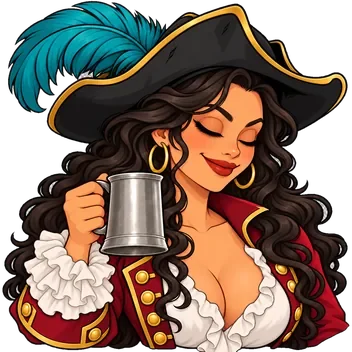
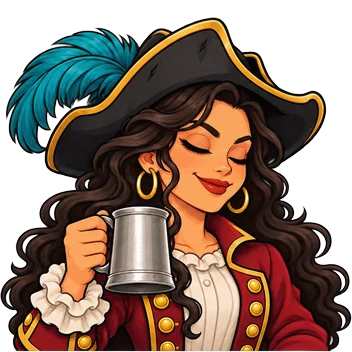
077 FR-074: the privateer's three poses redone with a higher neckline (review of #1000)

diff --git a/specs/077-cheeky-crew/spec.md b/specs/077-cheeky-crew/spec.md
@@ -261,7 +261,7 @@ The issue says *The theme's own* is "Minimalist in the normal themes; Pixel and 
 - 2026-10-29 (issue #871, owner Paco): **FR-071** `[IMPLEMENTED]` **A sleeping crew character in a nap bed reads like the couch seat.** With Characters = Cheeky, a character in a bed slot was the round face crop turned 80 degrees at the bottom left of a tall bunk column (two posts, a bed 34 px high, the name floating at the top, the chat number over the bed's foot). Now (1) it is the **same head-and-shoulders crop as a couch seat** (`avatar(a, 'seat')`, FR-060), upright on the pillow, with the blanket drawn over its lower edge, never rotated or cut; (2) the **name sits under the figure and the chat number on its top-left corner, as on the couch** (the issue 576 rule, name on top and number at the foot, stays for the other kits, whose figure lies down); (3) a bunk that holds **one bed** (a lone or odd sleeper) has **no posts** and its bed slot takes the whole column height, so the bed is drawn at a sensible size (up to 44 px high, 72 px wide) and the figure as large as the couch's; two beds in one column still split it in half. Bed slots of other kits keep their drawing; a lone bed there loses its posts. `[KNOWN GAP]` two stacked sleepers at 1280x800 each get a slot about 29 px high: the head and shoulders shrink to what fits (about 16 px), as the couch seats do in a short row (the badge check is skipped below 30 px). *Check:* `check:crew` lounge step at 1440x900 and 1280x800 (a lone sleeper with a couch next to it): the figure inside the bed slot and the lounge, the face box not clipped, the name under the figure, the chip clear of the face, the bed at least 26 px high.
 - 2026-10-29 (issue #815, crew 1 of 5; owner Paco, art signed off on #815 on 2026-10-27, "estan bien"): **FR-072** `[IMPLEMENTED]` (`test:` `test:crew`, `test:characters`, `test:crew-assets`; `sim:` `check-crew`, `check-characters`) **The Prehistoric Crew, a second Characters value** (FR-064: "New crews are added later as more values"). (1) The list gets `prehistoric` (label **Prehistoric**), appended, so `theme`, `minimalist` and `cheeky` keep their place; it draws the same `crew` kit (FR-065 unchanged: on top of any theme). `src/shared/characters.ts`, `theme.js` and `api.ts` carry it; `settings:setCharacters` accepts it and the file stores it. (2) `crew.js` is generalised, not forked: `IDS` stays the 13 Cheeky ids in the same order (saved choices unchanged, still under `durbar.crew`); `PREHISTORIC_IDS` = youngbeard, braids, bigbeard, ponytail, inventor, shaman; `idsFor(choice)` gives the list of a Characters value (anything else: Cheeky) and `storeKey(choice)` its localStorage key (`durbar.crew.prehistoric` for the new crew), so each crew keeps its own map and switching crews never mixes ids; an id is in one crew only. `app.js` asks for the active crew's ids, preloads that crew's pictures once and reloads the map when the Characters value changes. (3) Art (FR-050, FR-054): 6 characters x 3 poses = 18 WebP files `crew/art/prehistoric-<id>-<pose>.webp` (352x352, alpha, at most 40 KB, no metadata), made by Paco in ChatGPT on 2026-10-27, speck-cleaned (islands of 40 pixels or fewer removed) by Paco's agent, licence MIT (#799), with a row each in `ASSETS.md`. The total size cap of `test:crew-assets` goes from 1.5 MB to 2.5 MB (13 + 6 characters are about 1.8 MB). (4) `FACE` has a point per character and pose, read from each picture with a 50 px grid like the others (FR-060); `test:crew` and `check-crew` check the crop and the face box for every picture. (5) Settings lists it as the fourth choice with a portrait preview (FR-068). (6) `check-crew` runs the desks, poses, sharpness, faces, glow, idle, bed-slot and missing-picture steps for both crews at 1440x900 and 1280x800 (`CREW_CHARS` picks one); `check-characters` picks Prehistoric too. Other crews will be added the same way. Not verified: Windows and macOS (simulator on Linux only).
 - 2026-10-29 (issue #879; owner Paco, option 1 of 3 in his DM to his agent): **FR-073** `[IMPLEMENTED]` (`test:` `test:crew`; `sim:` `check-crew`) **In the simulator, each demo agent wears a character that fits its name**, per crew. Before, the random pick (FR-003) often dressed "Ada" as a bearded caveman. (1) `src/renderer/simcrew.js` is a fixed table, demo name -> one character id per crew (Cheeky, Prehistoric; a later crew adds a column). It was made by looking at the art: man, woman or neutral reading of each character, chosen once; there are no gender tags anywhere in the app. (2) `app.js` asks it only when the page runs under the simulator (`SIM`, `?sim=`): when a crew's map for the office is (re)built (`syncCrew`), it starts from the table (by the agent's own name, `baseName`, so a long alias or a rename does not change it) instead of empty, and the existing `assignCrew` fills the rest. `crew.js` is unchanged; real sessions, the web demo, saved choices (`durbar.crew*`) and helpers (random, as before) are untouched. (3) The table: Cheeky, women Ada gamer, Mira bob-glasses, Elif hacker, Priya disco, Lena sporty, Clara punk, Rosa bob-glasses (reused), Maya gamer (reused); unisex Noor scientist; men Jonas rocker, Tomas metalhead, Kenji skater, Omar buzzcut, Sven surfer, Hugo bookworm. Prehistoric (only six characters for 15 names, so reuse): Ada, Priya, Rosa braids; Mira, Lena, Maya ponytail; Elif, Clara shaman; Jonas, Sven bigbeard; Tomas, Omar youngbeard; Noor, Kenji, Hugo inventor. Reused rows are in different rooms where the default roster allows it. Reading of the Cheeky art: gamer, bob-glasses, disco and sporty women; hacker and punk neutral, leaning woman and androgynous; scientist neutral; buzzcut neutral, leaning man; rocker, metalhead, surfer, bookworm and skater men. Prehistoric: braids, ponytail women; shaman neutral, leaning woman; youngbeard and bigbeard men; inventor neutral, leaning boy. [KNOWN GAP] the readings are one person's look at drawn faces, not a claim about anyone; a new demo name needs a row (a name without one keeps the random pick).
-- 2026-11-01 (issue #815, crew 2 of 5; owner Paco, art approved by him on 2026-11-01): **FR-074** `[IMPLEMENTED]` (`test:` `test:crew`, `test:characters`, `test:crew-assets`; `sim:` `check-crew`, `check-characters`) **The Pirate Crew, a third Characters value**, added the way FR-072 added Prehistoric. (1) The list gets `pirate` (label **Pirate**), appended after `prehistoric`, drawing the `crew` kit; `characters.ts`, `theme.js`, `api.ts`, `sim.ts` and Settings carry it. (2) `crew.js`: `PIRATE_IDS` = captain, eyepatch, hook, cook, privateer, cabinboy; `CREWS.pirate`; `storeKey('pirate')` = `durbar.crew.pirate`; files `crew/art/pirate-<id>-<pose>.webp`; `FACE` has a point per character and pose, read from each picture with a 50 px grid like the others. (3) Art (FR-050, FR-054): 6 x 3 = 18 WebP files (352x352, alpha, at most 40 KB, no metadata) made by Paco in ChatGPT between 2026-10-27 and 2026-11-01, resized from 1254x1254 PNG, speck-cleaned (islands of 40 pixels or fewer removed), licence MIT (#799), a row each in `ASSETS.md`; the hook pirate, the cabin boy and the privateer are later redos chosen by Paco, and the privateer's resting picture had a painted checkerboard keyed out by a flood fill from the border. The total size cap of `test:crew-assets` (2.5 MB) is not changed: 19 characters are about 2.4 MB. (4) `simcrew.js` gets a Pirate column (FR-073): Ada, Priya, Clara and Maya captain; Mira, Elif, Lena and Rosa privateer; Jonas and Sven hook; Kenji and Omar eyepatch; Tomas and Hugo cook; Noor cabin boy; chosen by looking at the art, one person's reading of drawn faces. (5) `check-crew` runs the Pirate crew at both sizes and `check-characters` picks it. Real office keeps the Office people for it ("Real office shows Office people until Pirate has Real office poses.", spec 102 FR-202 via `peopleFor`; the note's name comes from `CREWS`, #991). Not verified: Windows and macOS (simulator on Linux only).
+- 2026-11-01 (issue #815, crew 2 of 5; owner Paco, art approved by him on 2026-11-01): **FR-074** `[IMPLEMENTED]` (`test:` `test:crew`, `test:characters`, `test:crew-assets`; `sim:` `check-crew`, `check-characters`) **The Pirate Crew, a third Characters value**, added the way FR-072 added Prehistoric. (1) The list gets `pirate` (label **Pirate**), appended after `prehistoric`, drawing the `crew` kit; `characters.ts`, `theme.js`, `api.ts`, `sim.ts` and Settings carry it. (2) `crew.js`: `PIRATE_IDS` = captain, eyepatch, hook, cook, privateer, cabinboy; `CREWS.pirate`; `storeKey('pirate')` = `durbar.crew.pirate`; files `crew/art/pirate-<id>-<pose>.webp`; `FACE` has a point per character and pose, read from each picture with a 50 px grid like the others. (3) Art (FR-050, FR-054): 6 x 3 = 18 WebP files (352x352, alpha, at most 40 KB, no metadata) made by Paco in ChatGPT between 2026-10-27 and 2026-11-01, resized from 1254x1254 PNG, speck-cleaned (islands of 40 pixels or fewer removed), licence MIT (#799), a row each in `ASSETS.md`; the hook pirate, the cabin boy and the privateer are later redos chosen by Paco, and the privateer's resting picture had a painted checkerboard keyed out by a flood fill from the border. The total size cap of `test:crew-assets` (2.5 MB) is not changed: 19 characters are about 2.4 MB. (4) `simcrew.js` gets a Pirate column (FR-073): Ada, Priya, Clara and Maya captain; Mira, Elif, Lena and Rosa privateer; Jonas and Sven hook; Kenji and Omar eyepatch; Tomas and Hugo cook; Noor cabin boy; chosen by looking at the art, one person's reading of drawn faces. (5) `check-crew` runs the Pirate crew at both sizes and `check-characters` picks it. Real office keeps the Office people for it ("Real office shows Office people until Pirate has Real office poses.", spec 102 FR-202 via `peopleFor`; the note's name comes from `CREWS`, #991). Not verified: Windows and macOS (simulator on Linux only). Review of #1000 (2026-11-02): the privateer's three poses were redone by Paco with a higher neckline (office-safe, FR-050) and cut from one transparent sheet; same FACE points (eye level checked on a 50 px grid), `check-crew` passes for Pirate.
 
 ## Owner answers (Paco, 2026-10-23)
 

diff --git a/src/renderer/crew/art/ASSETS.md b/src/renderer/crew/art/ASSETS.md
@@ -100,9 +100,9 @@ These 18 pictures (6 characters x working, waiting, resting) are the art of the 
 | `pirate-cook-resting.webp` | cook | ChatGPT (image generation) | 2026-10-27..2026-11-01 | prompt not supplied with this batch (owner to provide) | Paco (prompting) | resized from 1254x1254 PNG to 352x352 WebP and speck-cleaned by Paco's agent (2026-11-01); sign-off: Paco, 2026-11-01 | MIT, like the code (owner decision, Paco, 2026-10-27, #799; OpenAI terms assign output to the user) | read: OpenAI terms of use, output owned by the user |
 | `pirate-cook-waiting.webp` | cook | ChatGPT (image generation) | 2026-10-27..2026-11-01 | prompt not supplied with this batch (owner to provide) | Paco (prompting) | resized from 1254x1254 PNG to 352x352 WebP and speck-cleaned by Paco's agent (2026-11-01); sign-off: Paco, 2026-11-01 | MIT, like the code (owner decision, Paco, 2026-10-27, #799; OpenAI terms assign output to the user) | read: OpenAI terms of use, output owned by the user |
 | `pirate-cook-working.webp` | cook | ChatGPT (image generation) | 2026-10-27..2026-11-01 | prompt not supplied with this batch (owner to provide) | Paco (prompting) | resized from 1254x1254 PNG to 352x352 WebP and speck-cleaned by Paco's agent (2026-11-01); sign-off: Paco, 2026-11-01 | MIT, like the code (owner decision, Paco, 2026-10-27, #799; OpenAI terms assign output to the user) | read: OpenAI terms of use, output owned by the user |
-| `pirate-privateer-resting.webp` | privateer | ChatGPT (image generation) | 2026-10-31..2026-11-01 (redo chosen by Paco) | prompt not supplied with this batch (owner to provide) | Paco (prompting) | resized from 1254x1254 PNG to 352x352 WebP and speck-cleaned by Paco's agent (2026-11-01); painted checkerboard keyed out by a border flood fill; sign-off: Paco, 2026-11-01 | MIT, like the code (owner decision, Paco, 2026-10-27, #799; OpenAI terms assign output to the user) | read: OpenAI terms of use, output owned by the user |
-| `pirate-privateer-waiting.webp` | privateer | ChatGPT (image generation) | 2026-10-31..2026-11-01 (redo chosen by Paco) | prompt not supplied with this batch (owner to provide) | Paco (prompting) | resized from 1254x1254 PNG to 352x352 WebP and speck-cleaned by Paco's agent (2026-11-01); sign-off: Paco, 2026-11-01 | MIT, like the code (owner decision, Paco, 2026-10-27, #799; OpenAI terms assign output to the user) | read: OpenAI terms of use, output owned by the user |
-| `pirate-privateer-working.webp` | privateer | ChatGPT (image generation) | 2026-10-31..2026-11-01 (redo chosen by Paco) | prompt not supplied with this batch (owner to provide) | Paco (prompting) | resized from 1254x1254 PNG to 352x352 WebP and speck-cleaned by Paco's agent (2026-11-01); sign-off: Paco, 2026-11-01 | MIT, like the code (owner decision, Paco, 2026-10-27, #799; OpenAI terms assign output to the user) | read: OpenAI terms of use, output owned by the user |
+| `pirate-privateer-resting.webp` | privateer | ChatGPT (image generation) | 2026-11-02 (redo with a higher neckline, asked in review of #1000; chosen by Paco) | prompt not supplied with this batch (owner to provide) | Paco (prompting) | cut from one 1536x1024 transparent sheet of the three poses, scaled to fit 352x352 (bottom-aligned) and speck-cleaned by Paco's agent (2026-11-02); sign-off: Paco, 2026-11-02 ("Eso vale") | MIT, like the code (owner decision, Paco, 2026-10-27, #799; OpenAI terms assign output to the user) | read: OpenAI terms of use, output owned by the user |
+| `pirate-privateer-waiting.webp` | privateer | ChatGPT (image generation) | 2026-11-02 (redo with a higher neckline, asked in review of #1000; chosen by Paco) | prompt not supplied with this batch (owner to provide) | Paco (prompting) | cut from one 1536x1024 transparent sheet of the three poses, scaled to fit 352x352 (bottom-aligned) and speck-cleaned by Paco's agent (2026-11-02); sign-off: Paco, 2026-11-02 ("Eso vale") | MIT, like the code (owner decision, Paco, 2026-10-27, #799; OpenAI terms assign output to the user) | read: OpenAI terms of use, output owned by the user |
+| `pirate-privateer-working.webp` | privateer | ChatGPT (image generation) | 2026-11-02 (redo with a higher neckline, asked in review of #1000; chosen by Paco) | prompt not supplied with this batch (owner to provide) | Paco (prompting) | cut from one 1536x1024 transparent sheet of the three poses, scaled to fit 352x352 (bottom-aligned) and speck-cleaned by Paco's agent (2026-11-02); sign-off: Paco, 2026-11-02 ("Eso vale") | MIT, like the code (owner decision, Paco, 2026-10-27, #799; OpenAI terms assign output to the user) | read: OpenAI terms of use, output owned by the user |
 | `pirate-cabinboy-resting.webp` | cabinboy | ChatGPT (image generation) | 2026-10-31..2026-11-01 (redo chosen by Paco) | prompt not supplied with this batch (owner to provide) | Paco (prompting) | resized from 1254x1254 PNG to 352x352 WebP and speck-cleaned by Paco's agent (2026-11-01); sign-off: Paco, 2026-11-01 | MIT, like the code (owner decision, Paco, 2026-10-27, #799; OpenAI terms assign output to the user) | read: OpenAI terms of use, output owned by the user |
 | `pirate-cabinboy-waiting.webp` | cabinboy | ChatGPT (image generation) | 2026-10-31..2026-11-01 (redo chosen by Paco) | prompt not supplied with this batch (owner to provide) | Paco (prompting) | resized from 1254x1254 PNG to 352x352 WebP and speck-cleaned by Paco's agent (2026-11-01); sign-off: Paco, 2026-11-01 | MIT, like the code (owner decision, Paco, 2026-10-27, #799; OpenAI terms assign output to the user) | read: OpenAI terms of use, output owned by the user |
 | `pirate-cabinboy-working.webp` | cabinboy | ChatGPT (image generation) | 2026-10-31..2026-11-01 (redo chosen by Paco) | prompt not supplied with this batch (owner to provide) | Paco (prompting) | resized from 1254x1254 PNG to 352x352 WebP and speck-cleaned by Paco's agent (2026-11-01); sign-off: Paco, 2026-11-01 | MIT, like the code (owner decision, Paco, 2026-10-27, #799; OpenAI terms assign output to the user) | read: OpenAI terms of use, output owned by the user |
